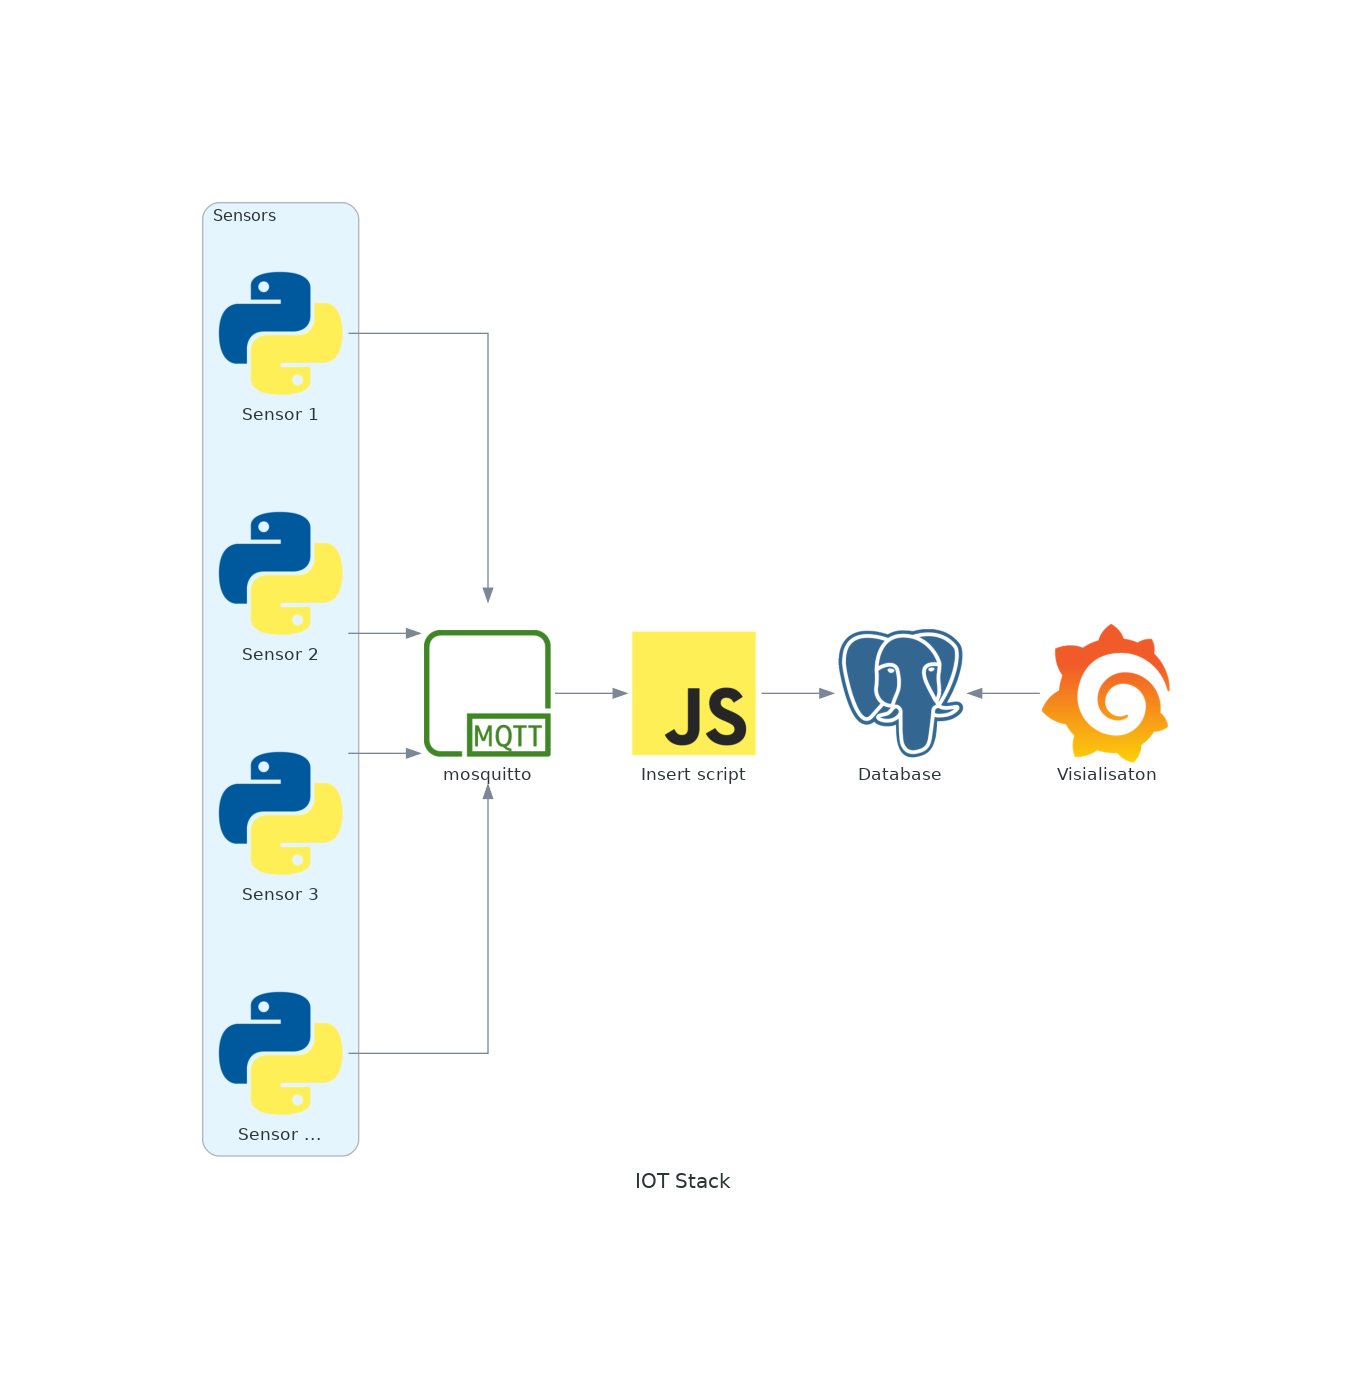
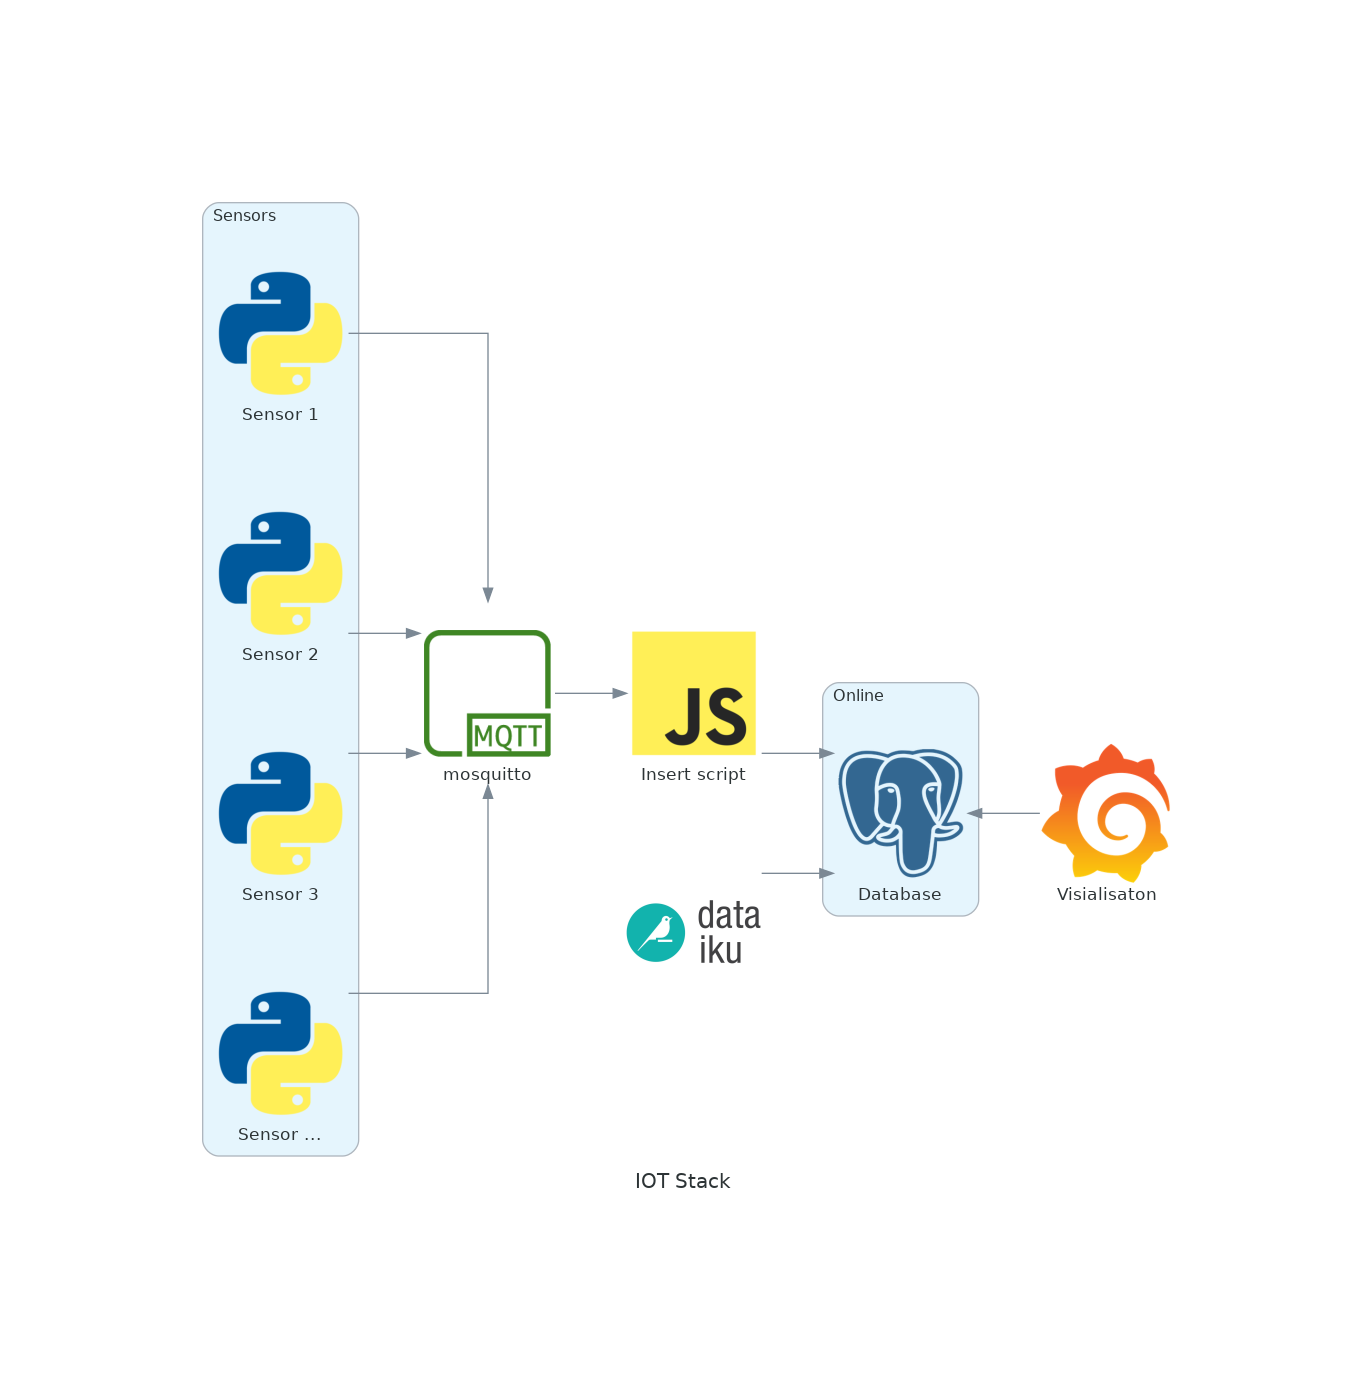
updated diagram

Changed region(s): [[0.5838, 0.4325, 0.7374, 0.6796], [0.7681, 0.4325, 0.8603, 0.6487], [0.4609, 0.6487, 0.553, 0.7105]]

diff --git a/docs/diagram.py b/docs/diagram.py
@@ -7,8 +7,9 @@ from diagrams.programming.language import Python, Javascript
 from diagrams.onprem.compute import Server
 from diagrams.onprem.monitoring import Grafana
 from diagrams.aws.iot import IotMqtt
+from diagrams.custom import Custom
 
-with Diagram("IOT Stack", show=False): 
+with Diagram("IOT Stack", show=False, direction="LR"): 
     with Cluster("Sensors"):
         sensors = [
             Python("Sensor 1"),
@@ -16,4 +17,10 @@ with Diagram("IOT Stack", show=False):
             Python("Sensor 3"),
             Python("Sensor ...")
         ]
-    sensors >> IotMqtt("mosquitto") >> Javascript("Insert script") >> Postgresql("Database") << Grafana("Visialisaton")
+    
+    with Cluster("Online"):
+        bdd = Postgresql("Database")
+
+    Custom("", "./dataiku.jpg") >> bdd
+    
+    sensors >> IotMqtt("mosquitto") >> Javascript("Insert script") >> bdd << Grafana("Visialisaton")
